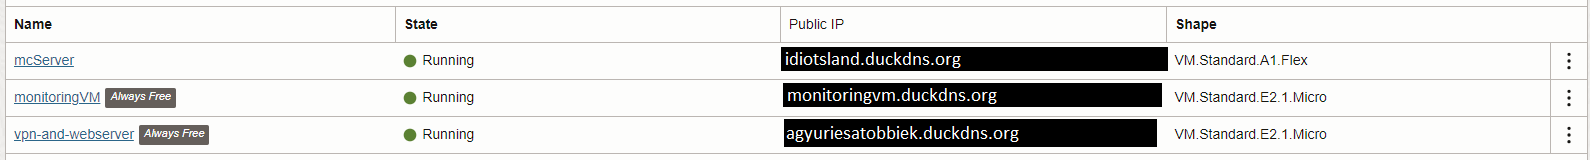
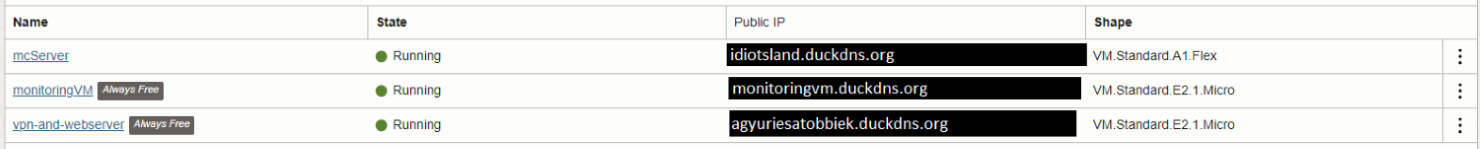
Add files via upload

diff --git a/oci.html b/oci.html
@@ -11,7 +11,7 @@
 </head>
 
 <body>
-    <div>
+    <div id="table">
         <header>
             <table class="TopTable">
                 <tr>
@@ -32,10 +32,10 @@
     <main id="gyoker">
         <section id="oci">
             <h2>Oracle Cloud Infrastructure</h2>
-            <p>Az Oracle Cloud Infrastructure (továbbá oci) az egy IaaS típusú felhőszolgáltatás. Szervereket, hálózati
-                erőforrásokat, és tárolókat adnak bérbe. <a href="http://oracle.com/cloud">Ismertető oldaluk</a> legelső
+            <p>Az Oracle Cloud Infrastructure (továbbá oci) az egy IaaS típusú felhőszolgáltatás. <br> Szervereket, hálózati
+                erőforrásokat, és tárolókat adnak bérbe. <a class="ociLink" href="http://oracle.com/cloud">Ismertető oldaluk</a> legelső
                 szlogenje:</p>
-            <span id="szlogen">"Az új generációs felhő bármely alkalmazás működtetésére dizájnolva, hogy gyorsan és
+            <span id="szlogen">"Az új generációs felhő bármely alkalmazás működtetésére dizájnolva, hogy gyorsan és <br>
                 biztonságosan működjön, olcsóbban</span>
         </section>
         <section id="miertoci">
@@ -43,15 +43,15 @@
             <ol>
                 <li>
                     <div>Multicloud
-                        <div class="indent">OCI képes integrálni több más felhőszolgáltatóval, mint Microsoft Azure
-                            adatbázis szolgáltatása mindezt nagy teljesítményű hálózati csatlakozással.</div>
+                        <div class="indent">OCI képes integrálni több más felhőszolgáltatóval, mint Microsoft Azure <br>
+                             adatbázis szolgáltatása mindezt nagy teljesítményű hálózati csatlakozással.</div>
                     </div>
                 </li>
                 <li>
                     <div>
                         Publikus felhő
                         <div class="indent">Szolgáltatások tárháza alacsony árakkal több kereskedelmi és kormányzati
-                            felhő régiókon keresztül.</div>
+                           <br> felhő régiókon keresztül.</div>
                     </div>
                 </li>
                 <li>
@@ -65,7 +65,7 @@
                 <li>
                     <div>
                         Dedikált felhő
-                        <div class="indent">Az OCI Dedicated Region és az Oracle Alloy több mint 100 felhőszolgáltatást
+                        <div class="indent">Az OCI Dedicated Region és az Oracle Alloy több mint 100 felhőszolgáltatást <br>
                             biztosít publikus felhő árakkal teljes egészében a saját adatközpontunkban.</div>
                     </div>
                 </li>
@@ -74,33 +74,33 @@
         <section id="mirehasznaljuk">
             <div id="eroforrasok">
                 <h2>Mire használjuk mi az OCI-t?</h2>
-                <p>Az OCI az ingyenes hozzáférésében is biztosít számunkra igen hasznos eszközöket, szolgáltatásokat. Az
+                <p>Az OCI az ingyenes hozzáférésében is biztosít számunkra igen hasznos eszközöket, szolgáltatásokat. <br> Az
                     "Always Free", avagy "Mindig ingyenes" szinten is egy ügyfél kap hozzáférést:</p>
                 <ul>
                     <li>
-                        <div>két VM.Standard.E2.1.Micro "formájú"<sup>1</sup> virtuális gépet, amely egy AMD EPYC 7551
-                            (Nápoly) 2.0 GHz-es gépen alapszik, 1 "OCPU"<sup>2</sup>-val, 1 GB memóriával, és egy 480
+                        <div>két VM.Standard.E2.1.Micro "formájú"<sup>1</sup> virtuális gépet, amely egy AMD EPYC 7551 <br>
+                            (Nápoly) 2.0 GHz-es gépen alapszik, 1 "OCPU"<sup>2</sup>-val, 1 GB memóriával, és egy 480 <br>
                             Mbps-es hálózati kapcsolattal, és csak "block"<sup>3</sup> tárhellyel.</div>
                     </li>
                     <li>
                         <div>
-                            a VM.Standard.A1.Flex formájú virtuális géphez, amelyhez van 3000 "OCPU-óra"<sup>4</sup> és
-                            18 000 "GB-óra"<sup>5</sup> processzor és RAM hozzáférésünk. Ez a forma egy Ampere Altra 80C
-                            ARM processzoron alapszik, mely 3.0 GHz órajelen fut 80 processzor maggal, és maximum 512 GB
-                            memóriával, 1 Gbps-es hálózati kapcsolattal per OCPU, maximum 40 Gbps kapcsolattal. Ez felér
-                            maximum egy 4 virtualizált magos 24 GB-os ARM géppel, 4 Gbps-es internet kapcsolattal,
+                            a VM.Standard.A1.Flex formájú virtuális géphez, amelyhez van 3000 "OCPU-óra"<sup>4</sup> és <br>
+                            18 000 "GB-óra"<sup>5</sup> processzor és RAM hozzáférésünk. Ez a forma egy Ampere Altra 80C <br>
+                            ARM processzoron alapszik, mely 3.0 GHz órajelen fut 80 processzor maggal, és maximum 512 GB <br>
+                            memóriával, 1 Gbps-es hálózati kapcsolattal per OCPU, maximum 40 Gbps kapcsolattal. Ez felér <br>
+                            maximum egy 4 virtualizált magos 24 GB-os ARM géppel, 4 Gbps-es internet kapcsolattal, <br>
                             amelyet felbonthatunk több kisebb részre is.
                         </div>
                     </li>
                     <li>
                         <div>
-                            block tárhelyből maximum 200 GB-hoz van hozzáférésünk, amelyet használhatunk általános
+                            block tárhelyből maximum 200 GB-hoz van hozzáférésünk, amelyet használhatunk általános <br>
                             tárhelynek, valamint "boot volume"<sup>6</sup>-nak. Egy boot volume legkisebb mérete 50 GB.
                         </div>
                     </li>
                     <li>
                         <div>
-                            maximum 5 biztonsági mentés összesen a block tárhelyekből. Külön egyedeknek a biztonsági mentései is külön számolandóak, így ha 4 külön block tárhely egységeink vannak, akkor azok biztonsági mentései is külön vannak számolva, nem pedig az összes 200 GB maximális tárhelyünket menti.
+                            maximum 5 biztonsági mentés összesen a block tárhelyekből. <br> Külön egyedeknek a biztonsági mentései is külön számolandóak, így ha 4 külön block tárhely egységeink <br> vannak, akkor azok biztonsági mentései is külön vannak számolva, nem pedig az összes 200 GB maximális tárhelyünket menti.
                         </div>
                     </li>
                 </ul>
@@ -111,7 +111,7 @@
                     <li>
                         <div>Forma:
                             <div class="indent">Ez a kifejezés egy általános megnevezése a különböző alapú virtualizált
-                                gépeknek. További informáió a virtuális gép formákról <a
+                                gépeknek. További informáió a virtuális gép formákról <a class="ociLink"
                                     href="http://https://docs.oracle.com/en-us/iaas/Content/Compute/References/computeshapes.htm"
                                     title="Oracle Cloud Infrastructure Documentation - Compute Shapes" id="ociFormak">itt.</a></div>
                         </div>
@@ -158,27 +158,27 @@
             <div id="felhasznalasa">
                 <p>Az erőforrásainkat 3 szerverre osztjuk fel:</p>
                 <ul>
-                    <li>egy 4 magos, 24 GB memóriával, 4 Gbps hálózati kapcsolattal rendelkező szerver, 100 GB boot volume-mal az A1.flex formával, "mcServer" néven</li>
-                    <li>egy-egy E2.1.Micro formájú szerver, 1 mag, 1 GB ram, 480 Mbps hálózati sebességgel, 50-50 GB boot volume-okkal külön-külön, "monitoringVM és vpn-and-webserver nevekkel</li>
+                    <li>egy 4 magos, 24 GB memóriával, 4 Gbps hálózati kapcsolattal rendelkező szerver, <br> 100 GB boot volume-mal az A1.flex formával, "mcServer" néven</li>
+                    <li>egy-egy E2.1.Micro formájú szerver, 1 mag, 1 GB ram, 480 Mbps hálózati sebességgel, <br> 50-50 GB boot volume-okkal külön-külön, "monitoringVM és vpn-and-webserver nevekkel</li>
                 </ul>
                 <div>
-                    <img src="dashboard.png" alt="OCI szervényfal nézet az instance-ekről" id="dashboard" title="OCI szervényfal nézet az instance-ekről">
-                    <p>Láthatjuk a képen is a 3 futó szervert, státuszát, publikus ip címeit - amelyeket eltakarja egy-egy duckdns.org alapú webcím -, és a szerverek formáját</p>
+                    <img itemid="dashKep" src="dashboard.png" alt="OCI szervényfal nézet az instance-ekről" id="dashboard" title="OCI szervényfal nézet az instance-ekről">
+                    <p>Láthatjuk a képen is a 3 futó szervert, státuszát, publikus ip címeit - <br> amelyeket eltakarja egy-egy duckdns.org alapú webcím -, és a szerverek formáját</p>
                 </div>
                 <p>Ahogy a nevük is utal rá, a szervereknek külön feladatai vannak:</p>
                 <ol>
                     <li>
                         <div>
                             mcServer
-                            <div class="indent">Ezen a szerveren egy Minecraft szerver fut, és annak, illetve esetleg több másik szerver fájljai találhatóak meg.</div>
+                            <div class="indent">Ezen a szerveren egy Minecraft szerver fut, és annak, <br> illetve esetleg több másik szerver fájljai találhatóak meg.</div>
                             <div class="indent">Néhány megtalálható szoftver:</div>
                             <ul>
                                 <li>
-                                    <div>sdkman: kezelő szoftver a különböző verziójú szoftver fejlesztő csomagokhoz; főleg a különböző Java verziók kezelésére van, a különböző Minecraft verziójú szerverekhez</div>
+                                    <div>sdkman: kezelő szoftver a különböző verziójú szoftver fejlesztő csomagokhoz; <br> főleg a különböző Java verziók kezelésére van, a különböző Minecraft verziójú szerverekhez</div>
                                     <div>Java: legalább egy JRE vagy JDK, és legalább 8-as verziójú</div>
                                 </li>
                             </ul>
-                            <div class="indent">Szerver jelenleg OOS - out-of-service. Korábbi iterációja az infrastruktúrának ez a szerver felhasználta az összes tárhelyet, és </div>
+                            <div class="indent">Szerver jelenleg OOS - out-of-service. <br> Korábbi iterációja az infrastruktúrának ez a szerver felhasználta az összes tárhelyet, és </div>
                         </div>
                     </li>
                     <li>

diff --git a/oci.css b/oci.css
@@ -6,22 +6,23 @@ body{
     animation-name: anim;
     animation-duration: 10s;
     animation-iteration-count: infinite;
-    
+    overflow-x: hidden;
 }
-
 #gyoker{
     position: absolute;
     top: 20%;
-    font-size: 40px;
+    font-size: 30px;
     font-family: Arial, Helvetica, sans-serif;
     background: linear-gradient(to right, red, orange, yellow,lime,cyan,blue,magenta,red );
     -webkit-text-fill-color: transparent;
     -webkit-background-clip: text;
 }
+.TopTable{
+    width: 98%;
+}
 #jelmagyarazat{
 font-size: large;
 }
-
 .indent{
     text-indent: 10px;
 }
@@ -30,4 +31,9 @@ font-size: large;
     0% {background-color: rgb(0,0,0)}
     50% {background-color: rgb(255, 255, 250)}
     100% {background-color: rgb(0,0,0);}
-  }
+}
+.ociLink{
+    -webkit-text-fill-color: red;
+    background:linear-gradient(to left, black, white);
+    text-decoration-line: underline;
+}

diff --git a/fooldal.js b/fooldal.js
@@ -1,4 +1,4 @@
-alert("Ezen az oldal a 2 bekezdés szövegére kattintva a szöveg színe randomizáltan változik!\nPróbálja ki!");
+alert("Ezen az oldal a 2 bekezdés szövegére kattintva a szöveg színe randomizáltan változik!\nPróbálja ki!\n+Várjon 30 mp-t a szem animációjával!");
 function szoveg(){
     document.getElementById("fooldal").style.color="#"+Math.floor(Math.random()*16777215).toString(16);
 }

diff --git a/main.css b/main.css
@@ -20,8 +20,17 @@ table, th, td {
 
 .Pages {
     width: 20%;
-    color: blue;
+    color: white;
     text-shadow: 10px;
+}
+a:link{
+    color: black;
+}
+a:hover{
+    color: darkviolet;
+}
+a:visited{
+    color: darkgreen;
 }
 
 h2 {

diff --git a/biztonsag.css b/biztonsag.css
@@ -1,6 +1,6 @@
 @font-face {
     font-family: "Sacra";
-    src: url(fonts/utilik/utilik-bold.ttf);
+    src: url(\utilik-bold.ttf);
 }
 body{
     font-family: 'Sacra', Georgia, 'Times New Roman', Times, serif;
